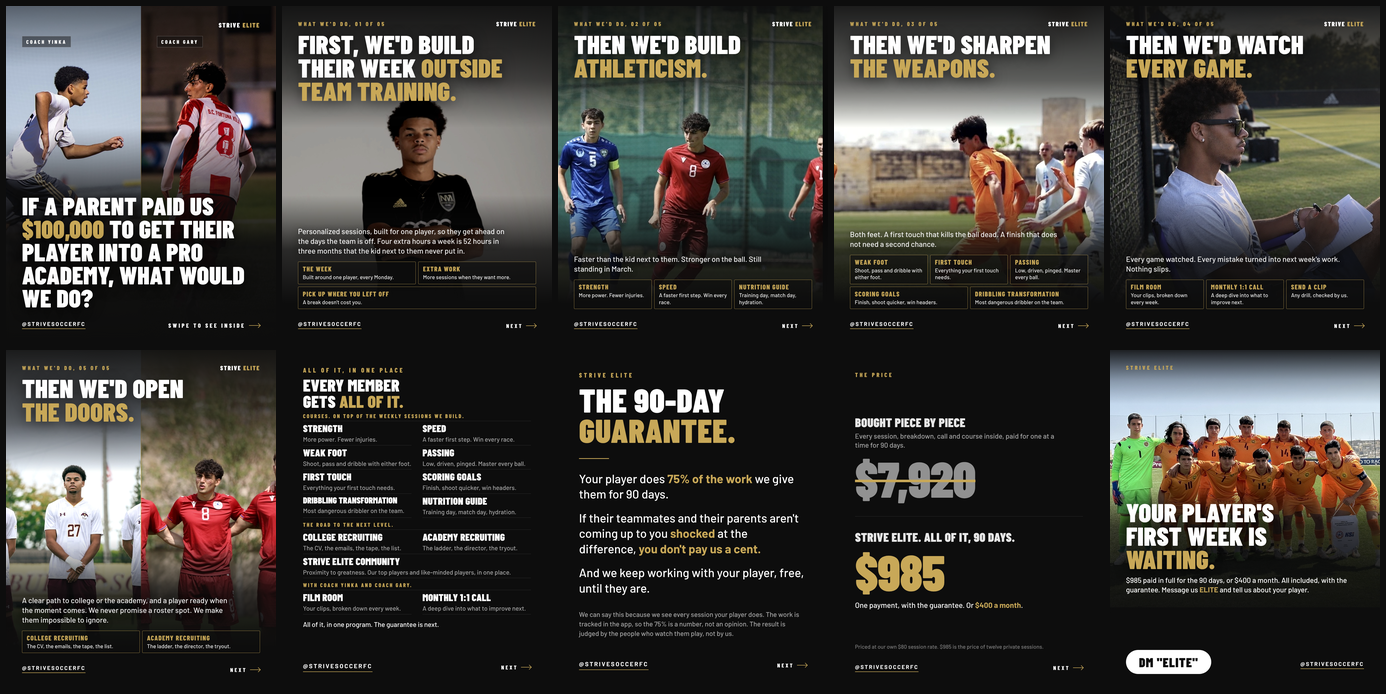
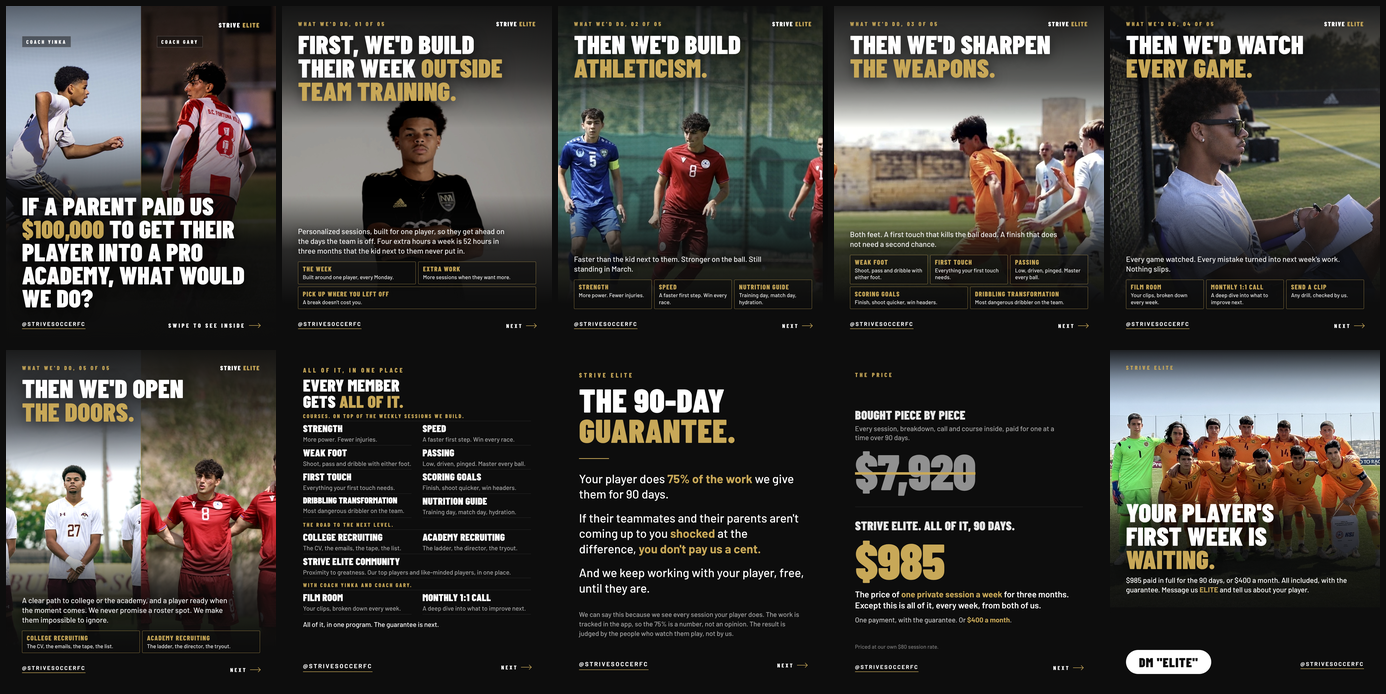
Offer carousel: price as one private session a week for three months
Claude-Session: https://claude.ai/code/session_011JsCTTjCbUkHbTuWTKQSXJ

Changed region(s): [[0.6205, 0.5749, 0.7756, 0.938]]

diff --git a/marketing/announcement/offer-post/costdrop.html b/marketing/announcement/offer-post/costdrop.html
@@ -11,15 +11,17 @@
 html,body{width:1080px;height:1350px;background:#0d0d0d;overflow:hidden}
 body{font-family:'Barlow',sans-serif;color:#fff;position:relative;padding:84px 84px 0}
 .eyebrow{font-family:'Barlow Condensed';font-weight:800;font-size:24px;letter-spacing:.3em;text-transform:uppercase;color:#c8a858}
-.block{margin-top:150px}
+.block{margin-top:120px}
 .lab{font-family:'Barlow Condensed';font-weight:900;font-size:50px;line-height:1;text-transform:uppercase;letter-spacing:.01em;color:rgba(255,255,255,.9)}
 .sub{margin-top:12px;font-size:28px;line-height:1.3;font-weight:500;color:rgba(255,255,255,.62);max-width:800px}
 .num{margin-top:22px;font-family:'Barlow Condensed';font-weight:900;font-size:200px;line-height:.9;letter-spacing:-.01em}
 .num.strike{color:rgba(255,255,255,.55);text-decoration:line-through;text-decoration-color:#c8a858;text-decoration-thickness:10px}
-.rule{height:1px;background:rgba(255,255,255,.14);margin:64px 0 56px}
+.rule{height:1px;background:rgba(255,255,255,.14);margin:56px 0 48px}
 .num.gold{color:#c8a858}
-.alt{margin-top:26px;font-size:30px;line-height:1.3;font-weight:500;color:#fff}
+.alt{margin-top:26px;font-size:34px;line-height:1.3;font-weight:600;color:#fff;max-width:900px}
 .alt b{color:#c8a858;font-weight:700}
+.pay{margin-top:18px;font-size:28px;line-height:1.3;font-weight:500;color:rgba(255,255,255,.75)}
+.pay b{color:#c8a858;font-weight:700}
 .fine{position:absolute;left:84px;right:84px;bottom:150px;font-size:22px;line-height:1.4;color:rgba(255,255,255,.45)}
 .bar{position:absolute;left:84px;right:84px;bottom:64px;display:flex;align-items:center;justify-content:space-between}
 .handle{font-weight:700;font-size:22px;letter-spacing:.18em;text-transform:uppercase}
@@ -32,7 +34,7 @@ body{font-family:'Barlow',sans-serif;color:#fff;position:relative;padding:84px 8
 
 <div class="block">
   <div class="lab">Bought piece by piece</div>
-  <p class="sub">Every session, breakdown, call and course inside, paid for one at a time for 90 days.</p>
+  <p class="sub">Every session, breakdown, call and course inside, paid for one at a time over 90 days.</p>
   <div class="num strike">$7,920</div>
 </div>
 
@@ -40,8 +42,9 @@ body{font-family:'Barlow',sans-serif;color:#fff;position:relative;padding:84px 8
 
 <div class="lab">Strive Elite. All of it, 90 days.</div>
 <div class="num gold">$985</div>
-<p class="alt">One payment, with the guarantee. Or <b>$400 a month</b>.</p>
+<p class="alt">The price of <b>one private session a week</b> for three months. Except this is all of it, every week, from both of us.</p>
+<p class="pay">One payment, with the guarantee. Or <b>$400 a month</b>.</p>
 
-<p class="fine">Priced at our own $80 session rate. $985 is the price of twelve private sessions.</p>
+<p class="fine">Priced at our own $80 session rate.</p>
 
 <div class="bar"><div class="handle">@strivesoccerfc</div><div class="swipe">Next <i></i></div></div>

diff --git a/CLAUDE.md b/CLAUDE.md
@@ -3525,6 +3525,17 @@ commit.
       "Priced at our own $80 session rate. $985 is the price of twelve
       private sessions." The itemised table is gone from the slide
       and lives in strive-elite-offer-post.md. Sent.
+      THEN (Coach Yinka: "When you say 12 private sessions that
+      doesn't mean much but say the price of a single 1:1 session once
+      a week for 3 months. Obv word it better. And see how you can
+      improve that slide with context and copy overall. Then send the
+      final"): under the $985 the line is now "The price of one
+      private session a week for three months. Except this is all of
+      it, every week, from both of us." (12 weeks x $80 = $960), set
+      as the slide's main line; "One payment, with the guarantee. Or
+      $400 a month." under it, smaller; fine print "Priced at our own
+      $80 session rate."; the "twelve private sessions" line is gone.
+      THE FINAL ten sent. Not posted.
 
 ## Growth target (stamped Sept 19, Coach Yinka's own call)
 
